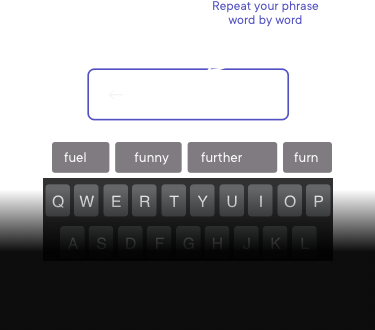
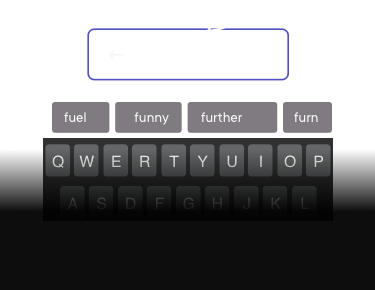
feat(passcode-recovery-instructions): image text as a separate text component

diff --git a/src/screens/Modals/PinRecoveryInstructions.tsx b/src/screens/Modals/PinRecoveryInstructions.tsx
@@ -1,5 +1,5 @@
 import React, { useCallback } from 'react'
-import { Image } from 'react-native'
+import { Image, View } from 'react-native'
 import { NavigationProp, StackActions } from '@react-navigation/native'
 import { StyleSheet } from 'react-native'
 
@@ -7,7 +7,6 @@ import Btn, { BtnTypes } from '~/components/Btn'
 import ScreenContainer from '~/components/ScreenContainer'
 import { ScreenNames } from '~/types/screens'
 import BP from '~/utils/breakpoints'
-import AbsoluteBottom from '~/components/AbsoluteBottom'
 import JoloText, { JoloTextKind, JoloTextWeight } from '~/components/JoloText'
 import { JoloTextSizes } from '~/utils/fonts'
 import { Colors } from '~/utils/colors'
@@ -44,6 +43,7 @@ const PinRecoveryInstructions: React.FC<PropsI> = ({ navigation }) => {
         customStyles={{
           alignSelf: 'flex-start',
           marginTop: BP({ default: 40, xsmall: 32 }),
+          textAlign: 'left',
         }}
       >
         {t('PasscodeRecoveryInstructions.header')}
@@ -70,46 +70,59 @@ const PinRecoveryInstructions: React.FC<PropsI> = ({ navigation }) => {
       >
         {t('PasscodeRecoveryInstructions.subheader2')}
       </JoloText>
-      <AbsoluteBottom customStyles={styles.btnsContainer}>
-        <Image
-          style={styles.instructionImage}
-          source={require('~/assets/images/pinrecovery.png')}
-        />
-        <Btn onPress={redirectToRecovery}>
-          {t('PasscodeRecoveryInstructions.submitBtn')}
-        </Btn>
-        <JoloText
-          kind={JoloTextKind.subtitle}
-          size={JoloTextSizes.tiniest}
-          color={Colors.white70}
-          customStyles={{
-            paddingBottom: BP({
-              xsmall: 10,
-              small: 10,
-              medium: 35,
-              large: 35,
-            }),
-            lineHeight: BP({ xsmall: 14, small: 18, medium: 22, large: 22 }),
-          }}
-        >
-          {t('PasscodeRecoveryInstructions.footer')}
-        </JoloText>
+      <View style={styles.btnsContainer}>
+        <View>
+          <View style={styles.instructionImage}>
+            <JoloText
+              color={Colors.purple}
+              size={JoloTextSizes.mini}
+              customStyles={styles.instructionText}
+            >
+              {t('PasscodeRecoveryInstructions.imageCaption')}
+            </JoloText>
+            <Image source={require('~/assets/images/pinrecovery.png')} />
+          </View>
+          <Btn onPress={redirectToRecovery}>
+            {t('PasscodeRecoveryInstructions.submitBtn')}
+          </Btn>
+          <JoloText
+            kind={JoloTextKind.subtitle}
+            size={JoloTextSizes.tiniest}
+            color={Colors.white70}
+            customStyles={{
+              lineHeight: BP({ xsmall: 14, small: 18, medium: 22, large: 22 }),
+            }}
+          >
+            {t('PasscodeRecoveryInstructions.footer')}
+          </JoloText>
+        </View>
         <Btn onPress={handleGoBack} type={BtnTypes.secondary}>
           {t('PasscodeRecoveryInstructions.cancelBtn')}
         </Btn>
-      </AbsoluteBottom>
+      </View>
     </ScreenContainer>
   )
 }
 
 const styles = StyleSheet.create({
+  instructionText: {
+    position: 'absolute',
+    top: -40,
+    right: '15%',
+    width: 130,
+  },
   instructionImage: {
-    bottom: BP({ xsmall: -120, small: -80, medium: -80, large: -50 }),
+    //bottom: BP({ xsmall: -120, small: -80, medium: -80, large: -50 }),
+    bottom: '-15%',
     alignSelf: 'center',
     transform: [{ scale: BP({ xsmall: 0.7, small: 1, medium: 1, large: 1 }) }],
   },
   btnsContainer: {
     alignSelf: 'center',
+    justifyContent: 'space-between',
+    width: '100%',
+    paddingBottom: 16,
+    flex: 1,
   },
   descriptionText: {
     alignSelf: 'flex-start',
